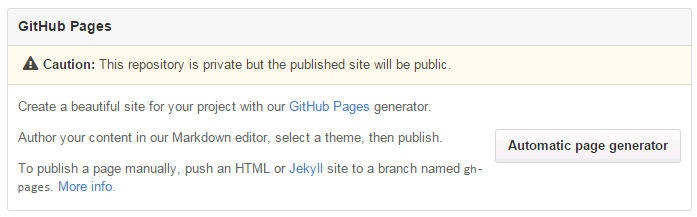
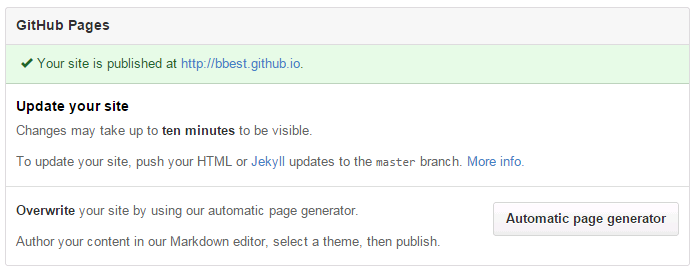
new website cloned

diff --git a/wk5/leaflet.md b/wk5/leaflet.md
@@ -36,7 +36,57 @@ Goals:
   
   - background map of your choosing
 
-## 1. Get polygons of bristlecone pine distribution
+
+## 1. Create Website
+
+To share content on the web, let's get started with creating a pretty website.
+
+Visit Github.com, login if needed, and create a new repository.
+
+![](./img/github_add_repo_dropdown.PNG)
+
+For the Repository name, enter your Github username.github.io and tick the box to Initialize this repository with a README. This will be your public website and you can add add a Description if you like.
+
+Now go to your repository <span class="octicon octicon-tools"></span> Settings (right nav pane, lower), and click on the Automatic page generator.
+
+![](./img/github_autopages.PNG)
+
+Let's just go with the default home page for now (you can edit later) and Continue to layouts. Have fun choosing a layout aligned with your aesthetic sensibilities and Publish page.
+
+![](./img/github_themes.PNG)
+
+You'll notice some webby files now in your repository: images, javascripts, stylesheets, and index.html. (The params.json is used internally for the automatic page generator.)
+
+Now add https://USER.github.io (replacing USER with your Github username) to the Website entry at top next to Description and Save. Finally, check out your website! (Might take up to 10 minutes to appear)
+
+## Git clone website locally
+
+Now let's get that website cloned locally to your machine so you can easily add and edit content. Launch Git Bash and enter the following commands, replacing FIRST LAST, USER, EMAIL variables with your own Github information. After setting these variables in the first couple lines, you can run the rest of the commands as is, since they use variable substitution.
+
+```bash
+# set to your own information
+USER=bbest
+FIRST_LAST="Ben Best"
+EMAIL=bbest@nceas.ucsb.edu
+
+# clone repo
+git clone https://github.com/$USER/$USER.github.io.git /h/esm296-4f/$USER.github.io
+
+# enter credentials
+cd /h/esm296-4f/$USER.github.io
+git config user.name "$FIRST_LAST"
+git config user.email $EMAIL
+git config credential.helper wincred
+git config push.default simple
+
+# push a test to ensure password saved
+git touch test.md
+git add test.md
+git commit -m "testing"
+git push
+```
+
+## 2. Get polygons of bristlecone pine distribution
 
 Let's continuing with our pet organism the bristlecone pine (_Pinus longaeva_). Download the species distribution shapefile from this website:
   
@@ -47,32 +97,6 @@ Unzip and create directories as needed so the shapefile and associated files liv
 ```
 H:\esm296-4f\lab5\raw\pinulong.shp
 ```
-
-## 2. Create Website
-
-To share content on the web, let's get started with creating a pretty website.
-
-Visit Github.com, login if needed, and create a new repository.
-
-![](./img/github_add_repo_dropdown.PNG)
-
-For the Repository name, enter your Github username.github.io and tick the box to Initialize this repository with a README. This will be your public website and you can add add a Description if you like.
-
-Now go to your repository <span class="octicon octicon-tools"></span> Settings (lower right) of this new Github repo. , Github Pages, click on Automatic page generator. 
-
-![](./img/github_autopages.PNG)
-
-Notice that although your repository is private this site will be public.
-
-Accept the default project site info and click Continue to layouts. Have fun choosing one to your aesthetic sensibilities and Publish page.
-
-![](./img/github_themes.PNG)
-
-You should see a notice like:
-
-> Your project page has been created at http://bbest.github.io. It may take up to 10 minutes to activate. Read more at https://help.github.com/pages.
-
-Return to RStudio and pull the latest changes from the Git pane.
 
 
 
